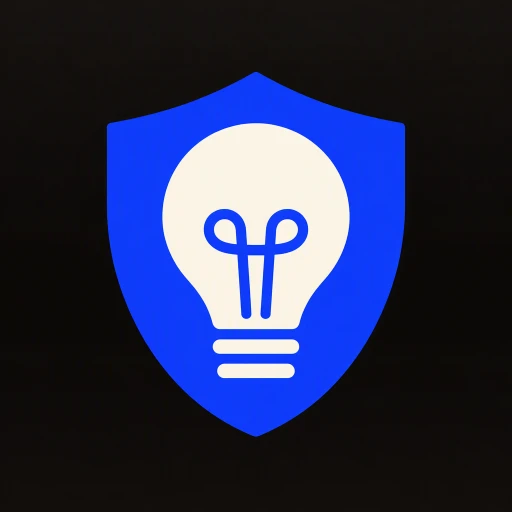
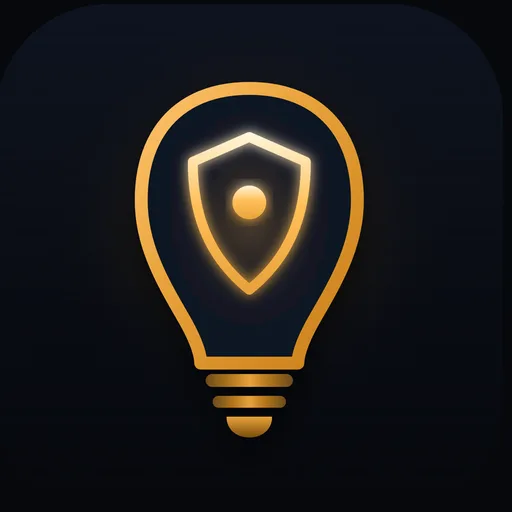
feat(site): give BlankSpace and BULB VPN their store art and Play links
Both entries were the only ones in the catalogue with an empty screenshot list
and no Android link, so /apps showed a placeholder where two shipped apps
should have carried their own icon and screens. Adds 6 BlankSpace and 5 BULB
screenshots plus refreshed icons, and fills screenshots/links in the seed and
the fallback catalogue so the CMS row and the bundled copy agree.

diff --git a/site/src/content/apps.js b/site/src/content/apps.js
@@ -284,9 +284,18 @@ export const apps = [
     platforms: ['iOS', 'Android'],
     genre: 'Word game',
     icon: '/media/apps/blankspace/icon.webp',
-    screenshots: [],
+    screenshots: [
+      '/media/apps/blankspace/shot1.webp',
+      '/media/apps/blankspace/shot2.webp',
+      '/media/apps/blankspace/shot3.webp',
+      '/media/apps/blankspace/shot4.webp',
+      '/media/apps/blankspace/shot5.webp',
+      '/media/apps/blankspace/shot6.webp',
+    ],
     stack: ['Flutter', 'Dart', 'Riverpod', 'go_router', 'Supabase Realtime', 'Firebase Remote Config', 'RevenueCat', 'AdMob'],
-    links: {},
+    links: {
+      android: 'https://play.google.com/store/apps/details?id=com.blankspaceparty.game',
+    },
     summary:
       'A party word game built on a pure-Dart round engine: solo, pass-and-play, and online rooms, with bots, scoring, a local leaderboard, and an optional premium tier.',
     features: [
@@ -304,6 +313,18 @@ export const apps = [
       ['Pure Dart', 'Round engine'],
       ['Realtime', 'Online rooms'],
     ],
+    sources: {
+      listings: ['https://play.google.com/store/apps/details?id=com.blankspaceparty.game'],
+      icon: 'https://play-lh.googleusercontent.com/8px71-OeSep3V4ETBdoAnLjzYVD991W-BqICo8rCm5qW7bXFJ1xBb7IKdlVEBlxbH0NEB0ZXrB6tb3JgDDHOPA=s512',
+      screenshots: [
+        'https://play-lh.googleusercontent.com/HWHHruaro8Gt9H77Vw5s_ckm6U3xJGBKL8RQoVm24IcL-EPNMVovjx05VUdb1j-5SYGipAHGzXH-qvD0WcSN=w600',
+        'https://play-lh.googleusercontent.com/Y_Hbz4yPVyCJbKyAJawzZDJ7qDQ_5X9VZixfP3nUMKaqWqBNNhECTbZy65vcM7S4d54lTWWJIB-bZ0Dnr_AIGQ=w600',
+        'https://play-lh.googleusercontent.com/jtQrgmZVGDsuDmwR23t3mJLsrFbL8QPtdRx6vpxv27GtMM94qavLGXyR7xW4IJ14mt4MVwT5_p067rBthhWskMY=w600',
+        'https://play-lh.googleusercontent.com/lYFY0qSUWRuLmopJZosTVRuixdDp0qLQ10U5kuFsdwlVfG-8KZbzRTQFFZEZXNAp08RdeZZh0UE3aho69Usu=w600',
+        'https://play-lh.googleusercontent.com/JXRh6IawNBhRE_tecQsd2TAmpMfBpSrBcch0TxFI0K5hXRvWNF75tQ_edrXcXF5z11JXzs5XC1OmgtBVgXHFrw=w600',
+        'https://play-lh.googleusercontent.com/-rdA4tfUUy3Zd2z1m5zv_RaK-3lpCFvM6TzHLzd8ealzeoMJlq3yMFJga3SFGh8f1jKECvN569BzXsZCRLZp0lg=w600',
+      ],
+    },
   },
   {
     slug: 'bulbvpn',
@@ -313,9 +334,16 @@ export const apps = [
     platforms: ['iOS', 'Android'],
     genre: 'Utilities',
     icon: '/media/apps/bulbvpn/icon.webp',
-    screenshots: [],
+    screenshots: [
+      '/media/apps/bulbvpn/shot1.webp',
+      '/media/apps/bulbvpn/shot2.webp',
+      '/media/apps/bulbvpn/shot3.webp',
+      '/media/apps/bulbvpn/shot4.webp',
+      '/media/apps/bulbvpn/shot5.webp',
+    ],
     stack: ['Flutter', 'Dart', 'Riverpod', 'go_router', 'flutter_vless', 'Firebase Remote Config', 'Analytics', 'Crashlytics', 'mobile_scanner'],
     links: {
+      android: 'https://play.google.com/store/apps/details?id=app.bulbvpn.com',
       github: 'https://github.com/hasanabbassorathiya/BULBVPN',
     },
     summary:
@@ -335,6 +363,17 @@ export const apps = [
       ['4', 'Import paths'],
       ['2', 'Platforms'],
     ],
+    sources: {
+      listings: ['https://play.google.com/store/apps/details?id=app.bulbvpn.com'],
+      icon: 'https://play-lh.googleusercontent.com/oxp8AacP4LiAjVMA2A_inzJuf52FkdbuDcYAwHXGqCegG3EP4NXR4zSi7906Cs20qRZ5D6bxNvGTsAkLbAuyUQ=s512',
+      screenshots: [
+        'https://play-lh.googleusercontent.com/JxMX-D5gqXN4SkzQ8rHmiHAcc-Aqcg0O9a3-Gsfla9ENJ_FerJMxsNMAmLeVRlcoXDkw07PYQpQk_Up39XEPKA=w600',
+        'https://play-lh.googleusercontent.com/ntmVQDG17BzhEUXFPNPDc7t0yS9VS9IiEx8hlcUevsoWPKBrhjc1KYFr57ci14XSYyMswrx9kefQQWgHL8jzGs8=w600',
+        'https://play-lh.googleusercontent.com/LXxPQk5Nt07kwTSC_gUgweafvrIR4XNbl546KA1OpUcTnxlD4NLZ_lMFIKaLmCWDmle_760s8j768IgfEi9BO7Y=w600',
+        'https://play-lh.googleusercontent.com/T-r52--ZMyliTi2Q32B8K-h2Urz3U5pDHmNhU8Y5k7KYS_qxHvxaQevD0UYnfNj35YkugSBMsC3zWIJx_nUDhQ=w600',
+        'https://play-lh.googleusercontent.com/gJ-SIy7BY7zCekwpgT5A6uPKY1TQLy2m9XfESUMCyA7MLS_Z8yVje_eFTMCOyiIwKoNXQ-KEZD1Z5KufiJHA=w600',
+      ],
+    },
   },
   // Store descriptions establish product features, not implementation ownership.
   // Preserve original listing/CDN URLs so the downloaded assets remain traceable.
